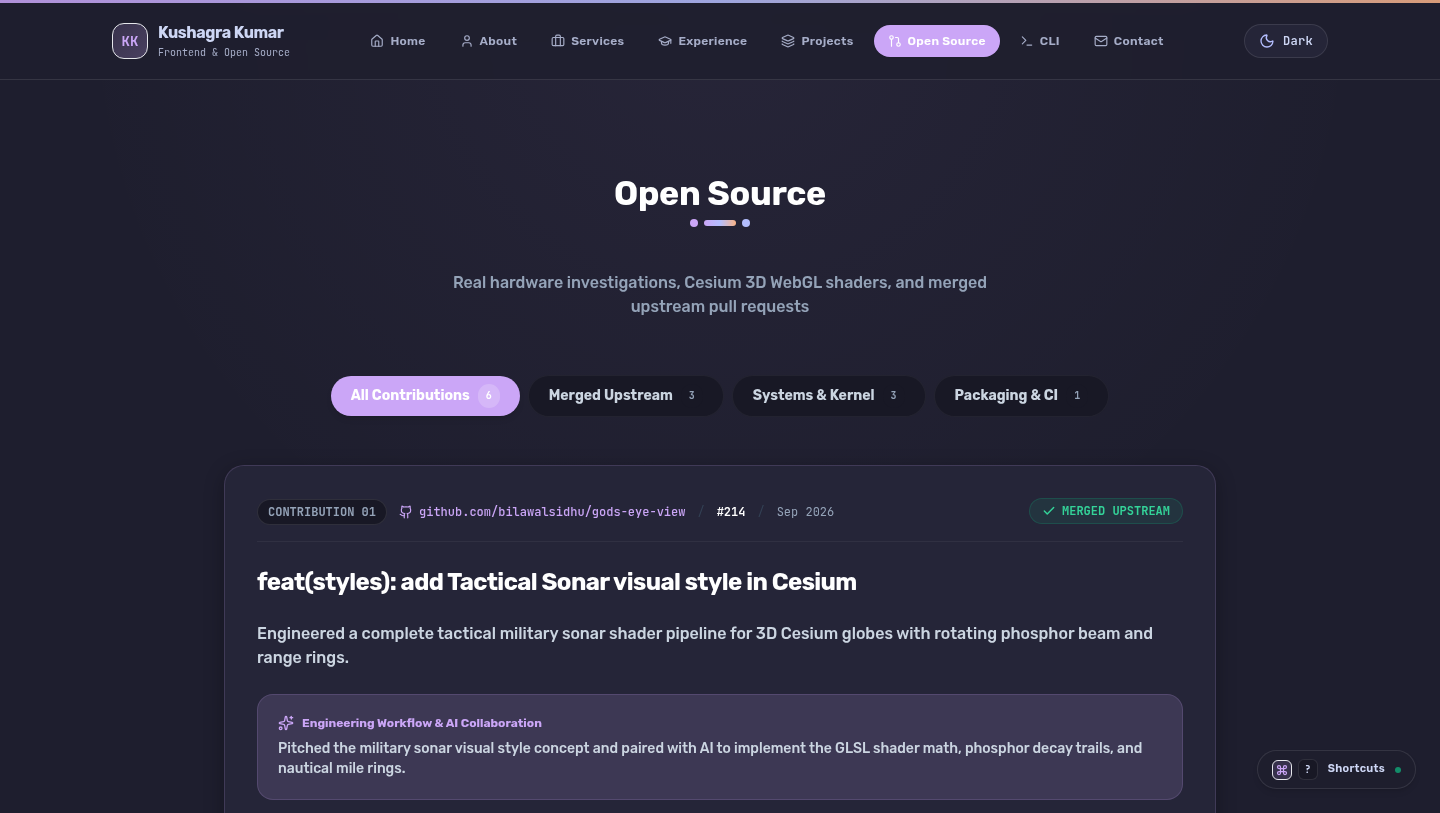
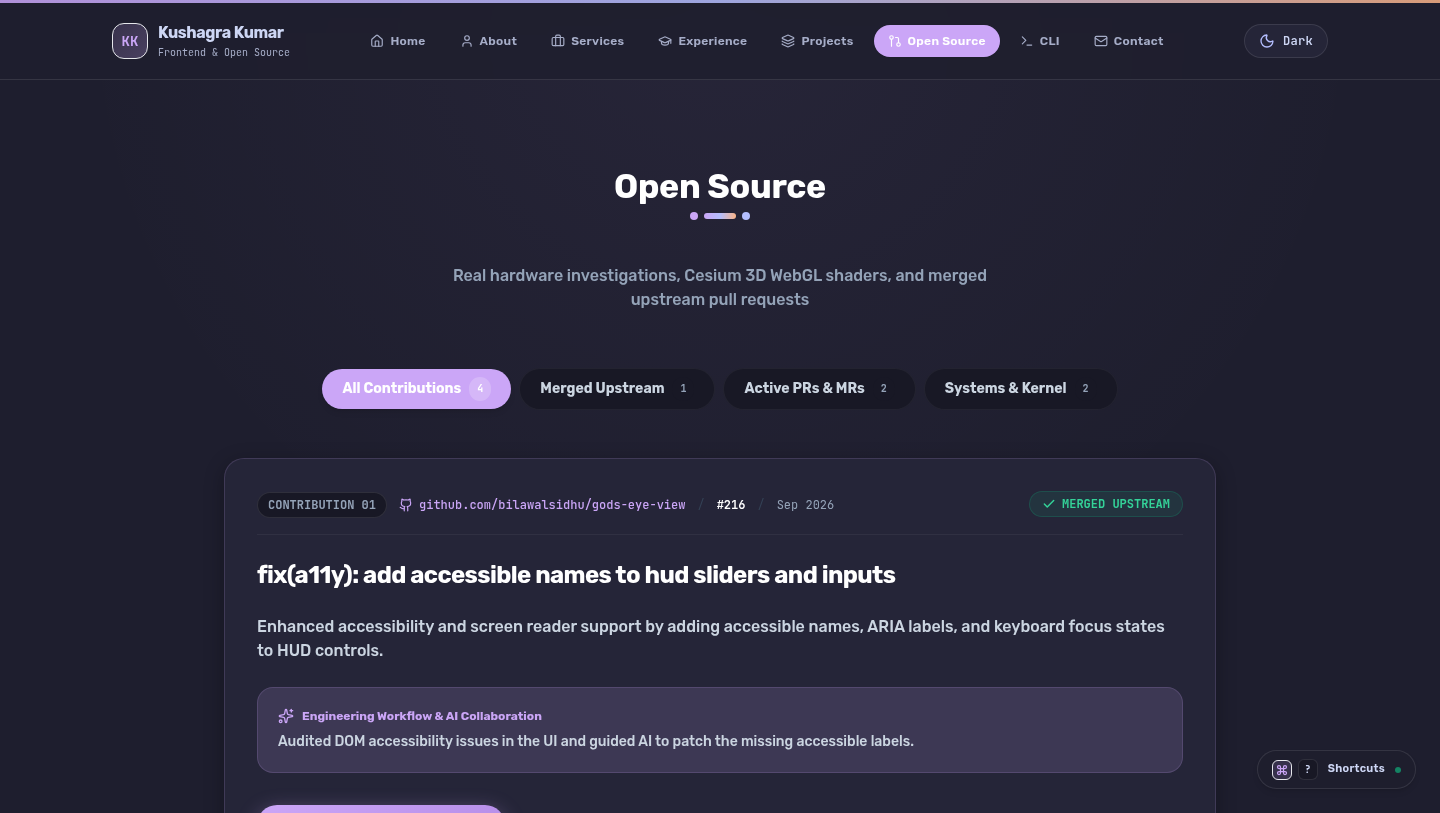
fix(upstream): curate open source contributions to verified merged and active items

diff --git a/src/data/portfolioData.ts b/src/data/portfolioData.ts
@@ -56,6 +56,25 @@ export const SKILL_GROUPS: SkillGroup[] = [
 
 export const UPSTREAM_CONTRIBUTIONS: UpstreamContribution[] = [
   {
+    id: 'gods-eye-view-pr-216',
+    platform: 'github',
+    type: 'pr',
+    repo: 'gods-eye-view',
+    repoOwner: 'bilawalsidhu',
+    refLabel: '#216',
+    title: 'fix(a11y): add accessible names to hud sliders and inputs',
+    url: 'https://github.com/bilawalsidhu/gods-eye-view/pull/216',
+    status: 'merged',
+    category: 'merged',
+    date: 'Sep 2026',
+    summary:
+      'Enhanced accessibility and screen reader support by adding accessible names, ARIA labels, and keyboard focus states to HUD controls.',
+    myRoleNote:
+      'Audited DOM accessibility issues in the UI and guided AI to patch the missing accessible labels.',
+    tags: ['GitHub PR', 'Merged Upstream', 'Accessibility', 'WCAG', 'Frontend'],
+    accentGradient: 'from-pink-500 to-rose-500',
+  },
+  {
     id: 'gods-eye-view-pr-214',
     platform: 'github',
     type: 'pr',
@@ -64,14 +83,14 @@ export const UPSTREAM_CONTRIBUTIONS: UpstreamContribution[] = [
     refLabel: '#214',
     title: 'feat(styles): add Tactical Sonar visual style in Cesium',
     url: 'https://github.com/bilawalsidhu/gods-eye-view/pull/214',
-    status: 'merged',
-    category: 'merged',
+    status: 'open',
+    category: 'active',
     date: 'Sep 2026',
     summary:
       'Engineered a complete tactical military sonar shader pipeline for 3D Cesium globes with rotating phosphor beam and range rings.',
     myRoleNote:
       'Pitched the military sonar visual style concept and paired with AI to implement the GLSL shader math, phosphor decay trails, and nautical mile rings.',
-    tags: ['GitHub PR', 'Merged', 'Cesium.js', 'GLSL Shader', 'WebGL'],
+    tags: ['GitHub PR', 'Active / In Review', 'Cesium.js', 'GLSL Shader', 'WebGL'],
     accentGradient: 'from-cyan-500 to-blue-600',
     diagnostic: {
       symptom: 'Rotating radar beam suffered projection warping and clipping artifacts at high latitudes on 3D globe tiles due to planar distortion.',
@@ -91,42 +110,42 @@ export const UPSTREAM_CONTRIBUTIONS: UpstreamContribution[] = [
     },
   },
   {
-    id: 'gods-eye-view-pr-216',
-    platform: 'github',
-    type: 'pr',
-    repo: 'gods-eye-view',
-    repoOwner: 'bilawalsidhu',
-    refLabel: '#216',
-    title: 'fix(a11y): add accessible names to hud sliders and inputs',
-    url: 'https://github.com/bilawalsidhu/gods-eye-view/pull/216',
-    status: 'merged',
-    category: 'merged',
+    id: 'mission-center-mr-117',
+    platform: 'gitlab',
+    type: 'mr',
+    repo: 'gng',
+    repoOwner: 'mission-center-devs',
+    refLabel: '!117',
+    title: 'gpu: Avoid waking suspended discrete GPUs during periodic refresh',
+    url: 'https://gitlab.com/mission-center-devs/gng/-/merge_requests/117',
+    status: 'open',
+    category: 'systems',
     date: 'Sep 2026',
     summary:
-      'Enhanced accessibility and screen reader support by adding accessible names, ARIA labels, and keyboard focus states to HUD controls.',
+      'Fixed Wayland desktop micro-stutters and freezes on hybrid AMD/NVIDIA laptops caused by NVTop waking the sleeping dGPU from D3cold every polling tick.',
     myRoleNote:
-      'Audited DOM accessibility issues in the UI and guided AI to patch the missing accessible labels.',
-    tags: ['GitHub PR', 'Merged', 'Accessibility', 'WCAG', 'Frontend'],
-    accentGradient: 'from-pink-500 to-rose-500',
-  },
-  {
-    id: 'packaging-ecosystem',
-    platform: 'github',
-    type: 'package',
-    repo: 'distro-packages',
-    repoOwner: 'upstream-distros',
-    refLabel: 'Multi-Distro',
-    title: 'System package maintainership: WinGet, Void Linux, Chimera, Termux',
-    url: 'https://github.com/microsoft/winget-pkgs/pull/422521',
-    status: 'merged',
-    category: 'packaging',
-    date: 'Aug - Sep 2026',
-    summary:
-      'Authored packaging manifests to distribute CLI utilities across Microsoft WinGet, Void Linux xbps-src, Chimera Linux cports, and Termux.',
-    myRoleNote:
-      'Guided AI to package the binaries according to each distribution standard format and submitted the PRs.',
-    tags: ['Packaging', 'Merged', 'WinGet', 'Void Linux', 'Termux'],
-    accentGradient: 'from-blue-500 to-indigo-600',
+      'Discovered the issue on my laptop, isolated the PCIe power thrash, and guided AI to inspect sysfs runtime_status in-memory and temporarily unlink sleeping nodes from NVTop list heads.',
+    tags: ['GitLab MR', 'Active / In Review', 'Linux Kernel', 'PCIe D3cold', 'Rust'],
+    accentGradient: 'from-emerald-500 to-cyan-500',
+    diagnostic: {
+      symptom: 'Periodic 1000ms NVTop poll woke sleeping NVIDIA discrete GPU from PCIe D3cold power state, triggering repetitive desktop Wayland micro-stutters and 10W battery drain.',
+      rootCause: 'NVTop device list traversal performed unconditional open() and ioctl queries on /sys/bus/pci/devices nodes without pre-checking Linux kernel runtime PM status in memory.',
+      fix: 'Implemented lightweight sysfs runtime_status parsing before polling. If status is suspended, device query is skipped, keeping the GPU sleeping.',
+      diffSnippet: {
+        file: 'src/nvtop_gpu.rs',
+        removed: [
+          '// Unconditionally poll device telemetry',
+          'let metrics = query_device_metrics(device_fd);',
+        ],
+        added: [
+          '// Check runtime PM status without waking PCIe bus',
+          'if is_device_suspended(device_sysfs_path) {',
+          '    return Ok(CachedGpuState::Sleeping);',
+          '}',
+          'let metrics = query_device_metrics(device_fd);',
+        ],
+      },
+    },
   },
   {
     id: 'zed-issue-63727',
@@ -162,63 +181,6 @@ export const UPSTREAM_CONTRIBUTIONS: UpstreamContribution[] = [
         ],
       },
     },
-  },
-  {
-    id: 'mission-center-mr-117',
-    platform: 'gitlab',
-    type: 'mr',
-    repo: 'gng',
-    repoOwner: 'mission-center-devs',
-    refLabel: '!117',
-    title: 'gpu: Avoid waking suspended discrete GPUs during periodic refresh',
-    url: 'https://gitlab.com/mission-center-devs/gng/-/merge_requests/117',
-    status: 'open',
-    category: 'systems',
-    date: 'Sep 2026',
-    summary:
-      'Fixed Wayland desktop micro-stutters and freezes on hybrid AMD/NVIDIA laptops caused by NVTop waking the sleeping dGPU from D3cold every polling tick.',
-    myRoleNote:
-      'Discovered the issue on my laptop, isolated the PCIe power thrash, and guided AI to inspect sysfs runtime_status in-memory and temporarily unlink sleeping nodes from NVTop list heads.',
-    tags: ['GitLab MR', 'Linux Kernel', 'PCIe D3cold', 'Rust', 'Wayland'],
-    accentGradient: 'from-emerald-500 to-cyan-500',
-    diagnostic: {
-      symptom: 'Periodic 1000ms NVTop poll woke sleeping NVIDIA discrete GPU from PCIe D3cold power state, triggering repetitive desktop Wayland micro-stutters and 10W battery drain.',
-      rootCause: 'NVTop device list traversal performed unconditional open() and ioctl queries on /sys/bus/pci/devices nodes without pre-checking Linux kernel runtime PM status in memory.',
-      fix: 'Implemented lightweight sysfs runtime_status parsing before polling. If status is suspended, device query is skipped, keeping the GPU sleeping.',
-      diffSnippet: {
-        file: 'src/nvtop_gpu.rs',
-        removed: [
-          '// Unconditionally poll device telemetry',
-          'let metrics = query_device_metrics(device_fd);',
-        ],
-        added: [
-          '// Check runtime PM status without waking PCIe bus',
-          'if is_device_suspended(device_sysfs_path) {',
-          '    return Ok(CachedGpuState::Sleeping);',
-          '}',
-          'let metrics = query_device_metrics(device_fd);',
-        ],
-      },
-    },
-  },
-  {
-    id: 'mission-center-issue-544',
-    platform: 'gitlab',
-    type: 'issue',
-    repo: 'mission-center',
-    repoOwner: 'mission-center-devs',
-    refLabel: '#544',
-    title: 'Hybrid GPU D3cold wakeup thrash causing Wayland desktop stutter',
-    url: 'https://gitlab.com/mission-center-devs/mission-center/-/issues/544',
-    status: 'investigated',
-    category: 'systems',
-    date: 'Sep 2026',
-    summary:
-      'Detailed root cause analysis explaining how periodic GPU gatherer queries trigger ACPI _PS0 resumes on hybrid laptops.',
-    myRoleNote:
-      'Gathered real-world reproduction logs on Fedora 44 and outlined the proposed sysfs checking solution for the community.',
-    tags: ['GitLab Issue', 'Root Cause Analysis', 'Power Mgmt', 'Linux'],
-    accentGradient: 'from-amber-500 to-orange-500',
   },
 ];
 

diff --git a/src/components/UpstreamSection.tsx b/src/components/UpstreamSection.tsx
@@ -13,17 +13,18 @@ export const UpstreamSection: React.FC = () => {
   const categories: { label: string; value: ContributionCategory; count: number }[] = [
     { label: 'All Contributions', value: 'all', count: UPSTREAM_CONTRIBUTIONS.length },
     { label: 'Merged Upstream', value: 'merged', count: UPSTREAM_CONTRIBUTIONS.filter((c) => c.status === 'merged').length },
+    { label: 'Active PRs & MRs', value: 'active', count: UPSTREAM_CONTRIBUTIONS.filter((c) => c.status === 'open').length },
     { label: 'Systems & Kernel', value: 'systems', count: UPSTREAM_CONTRIBUTIONS.filter((c) => c.category === 'systems').length },
-    { label: 'Packaging & CI', value: 'packaging', count: UPSTREAM_CONTRIBUTIONS.filter((c) => c.category === 'packaging').length },
   ];
 
   const filtered = UPSTREAM_CONTRIBUTIONS.filter((item) => {
     if (selectedCategory === 'all') return true;
     if (selectedCategory === 'merged') return item.status === 'merged';
+    if (selectedCategory === 'active') return item.status === 'open';
     return item.category === selectedCategory;
   });
 
-  const getStatusBadge = (status: UpstreamContribution['status']) => {
+  const getStatusBadge = (status: UpstreamContribution['status'], type?: UpstreamContribution['type']) => {
     switch (status) {
       case 'merged':
         return (
@@ -36,13 +37,13 @@ export const UpstreamSection: React.FC = () => {
         return (
           <span className="rounded-full bg-[var(--accent-primary)]/10 border border-[var(--accent-primary)]/20 text-[var(--accent-primary)] font-mono text-xs font-bold px-3 py-1 inline-flex items-center gap-1.5">
             <GitPullRequest className="w-3.5 h-3.5 stroke-[2.5]" />
-            ACTIVE PR
+            {type === 'mr' ? 'ACTIVE MR (UNDER REVIEW)' : 'ACTIVE PR (UNDER REVIEW)'}
           </span>
         );
       case 'investigated':
         return (
           <span className="rounded-full bg-[var(--accent-secondary)]/10 text-[var(--accent-secondary)] border border-[var(--accent-secondary)]/20 font-mono text-xs font-bold px-3 py-1 inline-flex items-center gap-1.5">
-            ROOT CAUSE TRACED
+            UPSTREAM INVESTIGATION
           </span>
         );
       default:
@@ -115,7 +116,7 @@ export const UpstreamSection: React.FC = () => {
                 <span className="text-slate-500 dark:text-slate-400 tabular-nums">{item.date}</span>
               </div>
 
-              <div>{getStatusBadge(item.status)}</div>
+              <div>{getStatusBadge(item.status, item.type)}</div>
             </div>
 
             {/* Title */}

diff --git a/src/components/SystemTelemetry.tsx b/src/components/SystemTelemetry.tsx
@@ -115,11 +115,10 @@ cccccccc;.:odl:.;cccccccccccccc:,.
         outputNode = (
           <div className="py-1 text-xs font-mono space-y-1 text-slate-300">
             <div className="text-[var(--accent-primary)] font-semibold">Open Source Contributions:</div>
-            <div>* bilawalsidhu/gods-eye-view #214 (Tactical Sonar Cesium shader bugfix)</div>
-            <div>* bilawalsidhu/gods-eye-view #216 (WCAG accessibility fix)</div>
-            <div>* distro-packages Multi-Distro (WinGet, Void, Termux packaging)</div>
-            <div>* zed-industries/zed #63727 (Wayland shutdown timeout investigation)</div>
-            <div>* mission-center-devs/gng !117 (D3cold GPU power thrash fix)</div>
+            <div>* bilawalsidhu/gods-eye-view #216 (WCAG accessibility fix: Merged Upstream)</div>
+            <div>* bilawalsidhu/gods-eye-view #214 (Tactical Sonar Cesium shader: Active PR)</div>
+            <div>* mission-center-devs/gng !117 (PCIe D3cold GPU power thrash fix: Active MR)</div>
+            <div>* zed-industries/zed #63727 (Wayland shutdown timeout: Upstream Investigation)</div>
           </div>
         );
         break;

diff --git a/tests/portfolioData.test.ts b/tests/portfolioData.test.ts
@@ -36,11 +36,11 @@ describe('Portfolio Data Integrity & Schema Validation', () => {
     expect(UPSTREAM_CONTRIBUTIONS.length).toBeGreaterThanOrEqual(3);
     // Verify merged items come first
     expect(UPSTREAM_CONTRIBUTIONS[0].status).toBe('merged');
-    expect(UPSTREAM_CONTRIBUTIONS[1].status).toBe('merged');
-    expect(UPSTREAM_CONTRIBUTIONS[2].status).toBe('merged');
-    // Verify GitLab MR is positioned toward the end
-    expect(UPSTREAM_CONTRIBUTIONS[UPSTREAM_CONTRIBUTIONS.length - 2].platform).toBe('gitlab');
-    expect(UPSTREAM_CONTRIBUTIONS[UPSTREAM_CONTRIBUTIONS.length - 1].platform).toBe('gitlab');
+    expect(UPSTREAM_CONTRIBUTIONS[0].id).toBe('gods-eye-view-pr-216');
+    // Verify GitLab MR is present and open
+    const gitlabMR = UPSTREAM_CONTRIBUTIONS.find((c) => c.platform === 'gitlab');
+    expect(gitlabMR).toBeDefined();
+    expect(gitlabMR?.status).toBe('open');
 
     for (const item of UPSTREAM_CONTRIBUTIONS) {
       expect(item.id.length).toBeGreaterThan(0);

diff --git a/src/types/index.ts b/src/types/index.ts
@@ -1,4 +1,4 @@
-export type ContributionCategory = 'all' | 'merged' | 'systems' | 'discussions' | 'packaging';
+export type ContributionCategory = 'all' | 'merged' | 'systems' | 'active' | 'discussions' | 'packaging';
 
 export type ContributionType = 'pr' | 'mr' | 'issue' | 'discussion' | 'package';
 
